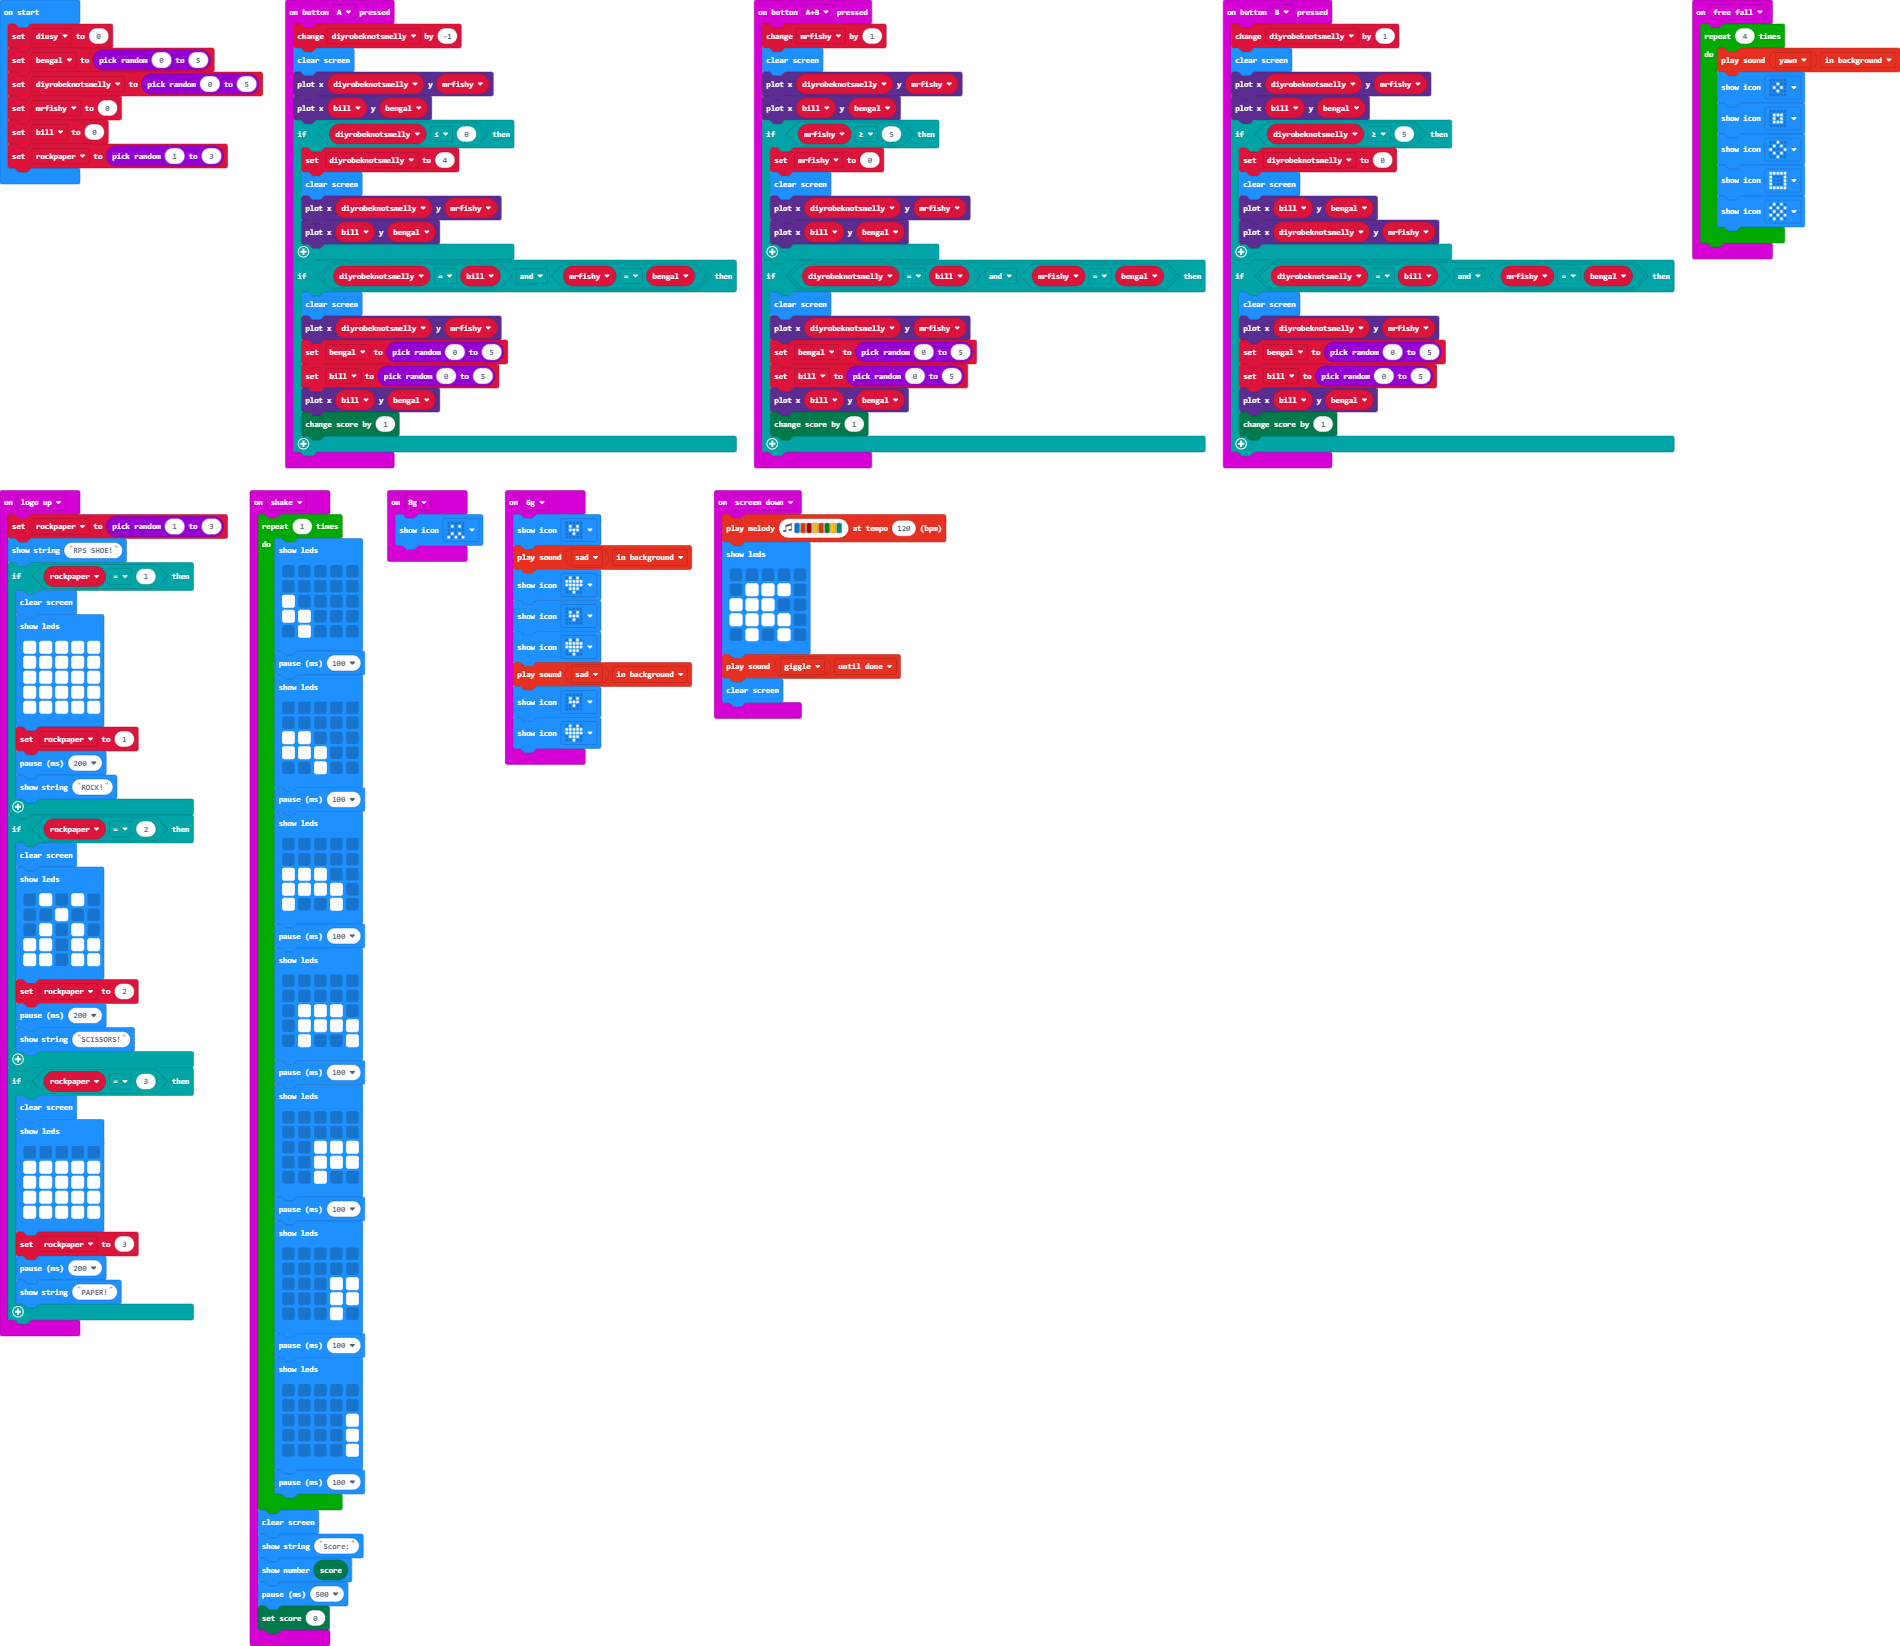
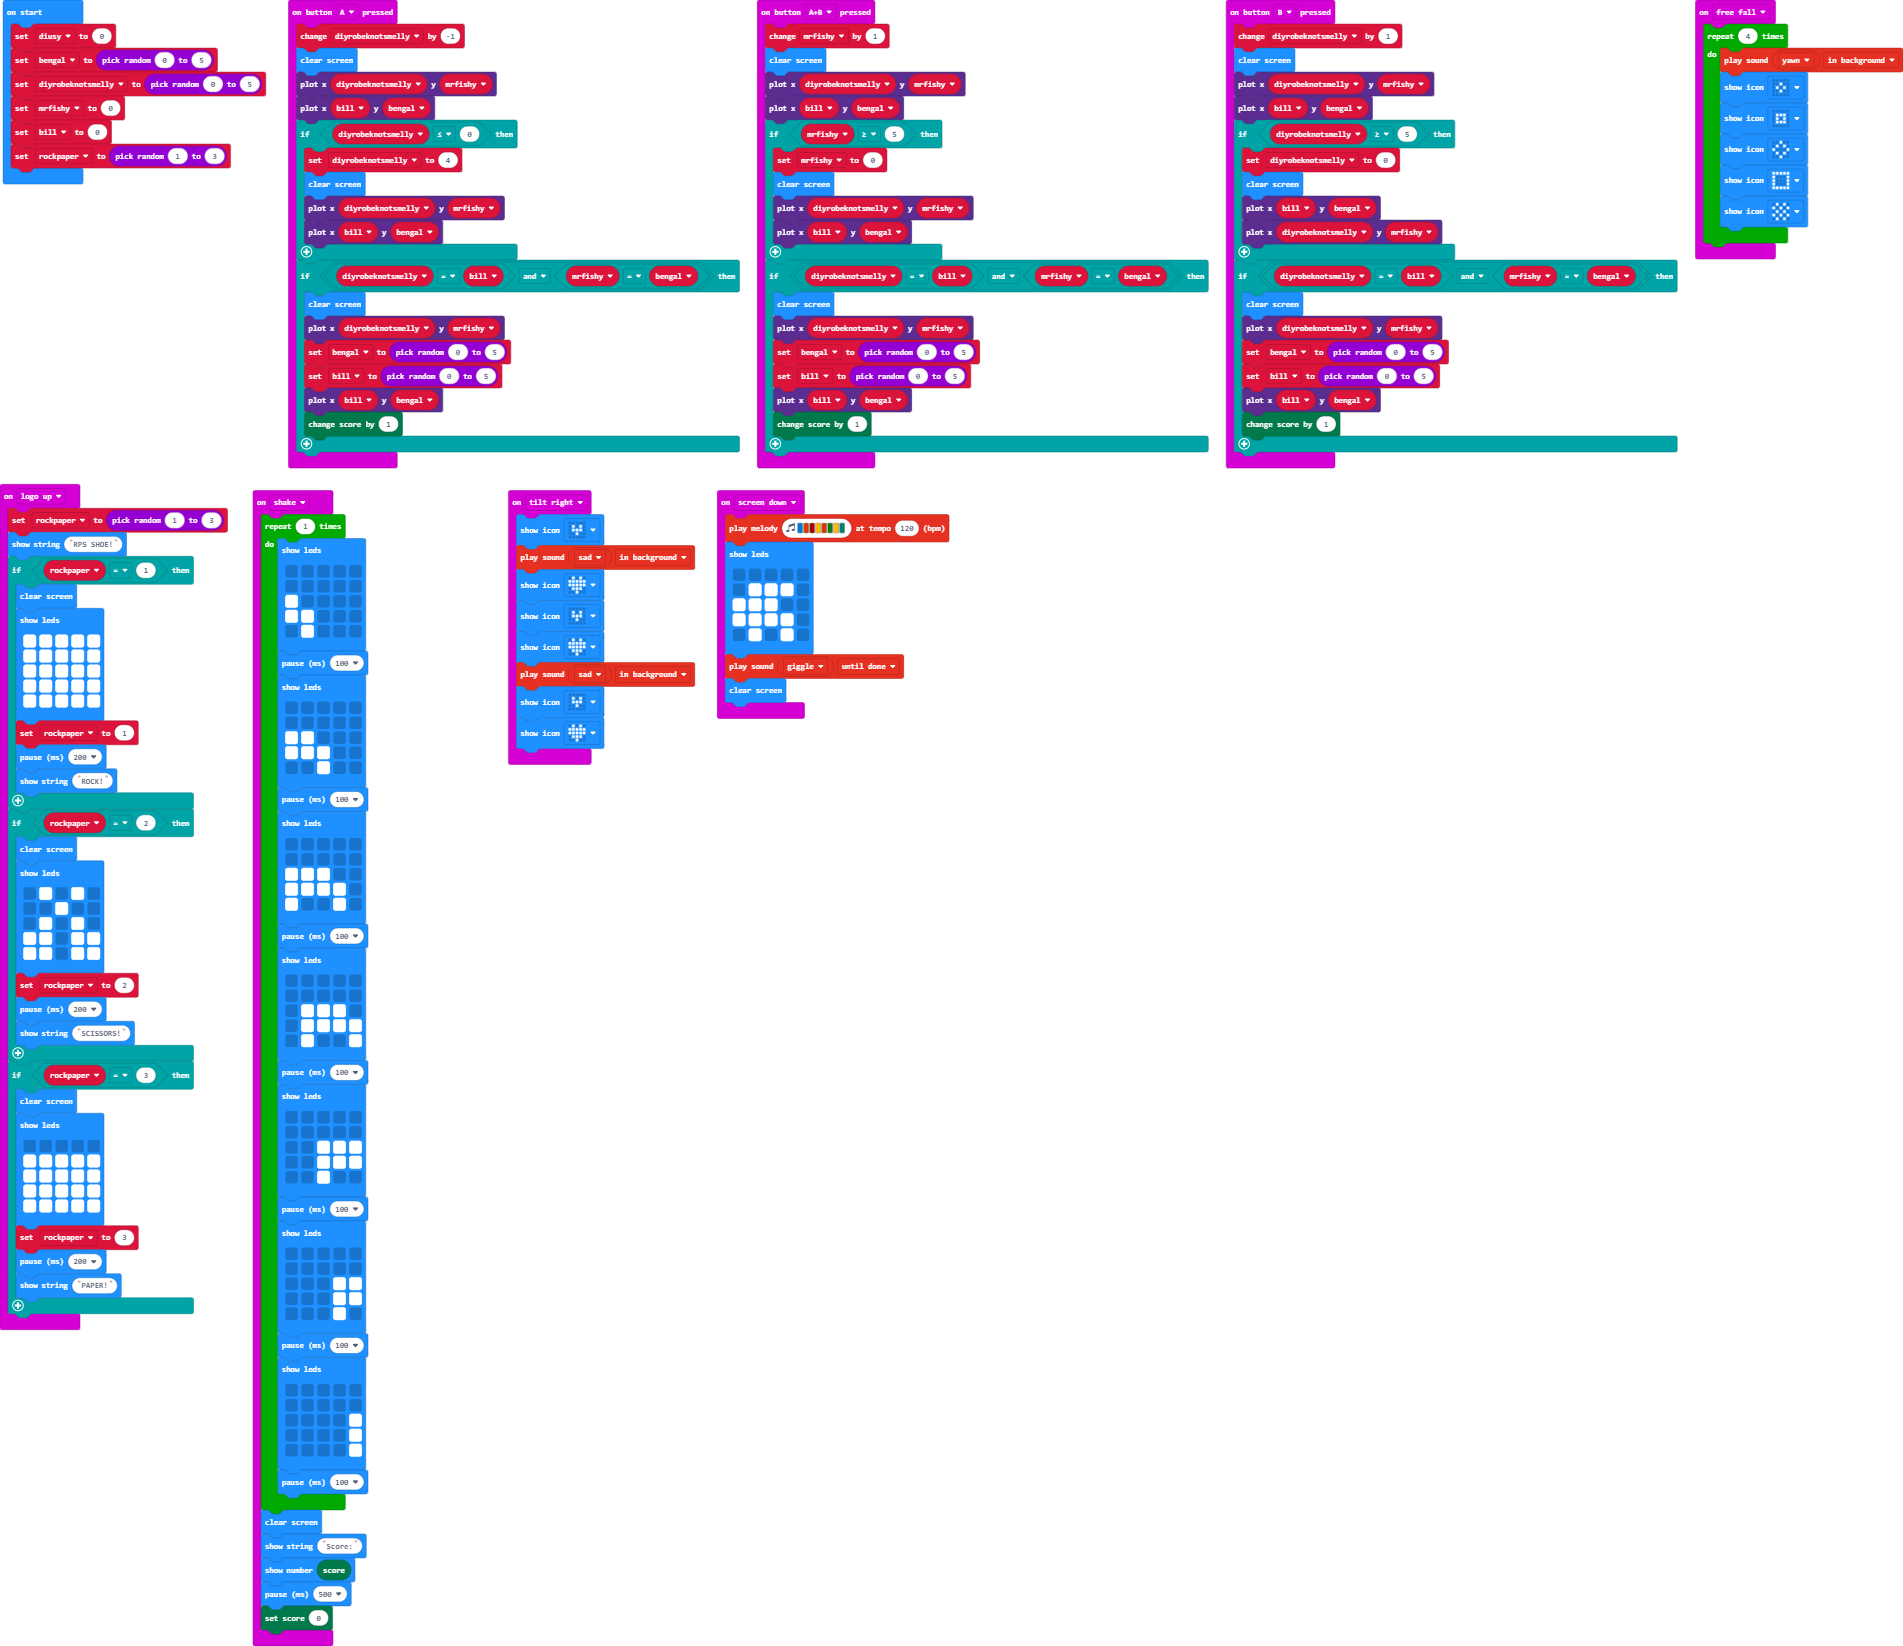
Update main.blocks, main.ts

diff --git a/main.ts b/main.ts
@@ -1,6 +1,3 @@
-input.onGesture(Gesture.EightG, function () {
-    basic.showIcon(IconNames.Confused)
-})
 input.onButtonPressed(Button.A, function () {
     diyrobeknotsmelly += -1
     basic.clearScreen()
@@ -73,16 +70,6 @@ input.onGesture(Gesture.LogoUp, function () {
         basic.pause(200)
         basic.showString("PAPER!")
     }
-})
-input.onGesture(Gesture.SixG, function () {
-    basic.showIcon(IconNames.SmallHeart)
-    music.playSoundEffect(music.builtinSoundEffect(soundExpression.sad), SoundExpressionPlayMode.InBackground)
-    basic.showIcon(IconNames.Heart)
-    basic.showIcon(IconNames.SmallHeart)
-    basic.showIcon(IconNames.Heart)
-    music.playSoundEffect(music.builtinSoundEffect(soundExpression.sad), SoundExpressionPlayMode.InBackground)
-    basic.showIcon(IconNames.SmallHeart)
-    basic.showIcon(IconNames.Heart)
 })
 input.onGesture(Gesture.ScreenDown, function () {
     music.playMelody("E B C5 A B G A F ", 120)
@@ -200,6 +187,16 @@ input.onGesture(Gesture.Shake, function () {
     basic.showNumber(game.score())
     basic.pause(500)
     game.setScore(0)
+})
+input.onGesture(Gesture.TiltRight, function () {
+    basic.showIcon(IconNames.SmallHeart)
+    music.playSoundEffect(music.builtinSoundEffect(soundExpression.sad), SoundExpressionPlayMode.InBackground)
+    basic.showIcon(IconNames.Heart)
+    basic.showIcon(IconNames.SmallHeart)
+    basic.showIcon(IconNames.Heart)
+    music.playSoundEffect(music.builtinSoundEffect(soundExpression.sad), SoundExpressionPlayMode.InBackground)
+    basic.showIcon(IconNames.SmallHeart)
+    basic.showIcon(IconNames.Heart)
 })
 let rockpaper = 0
 let bill = 0
